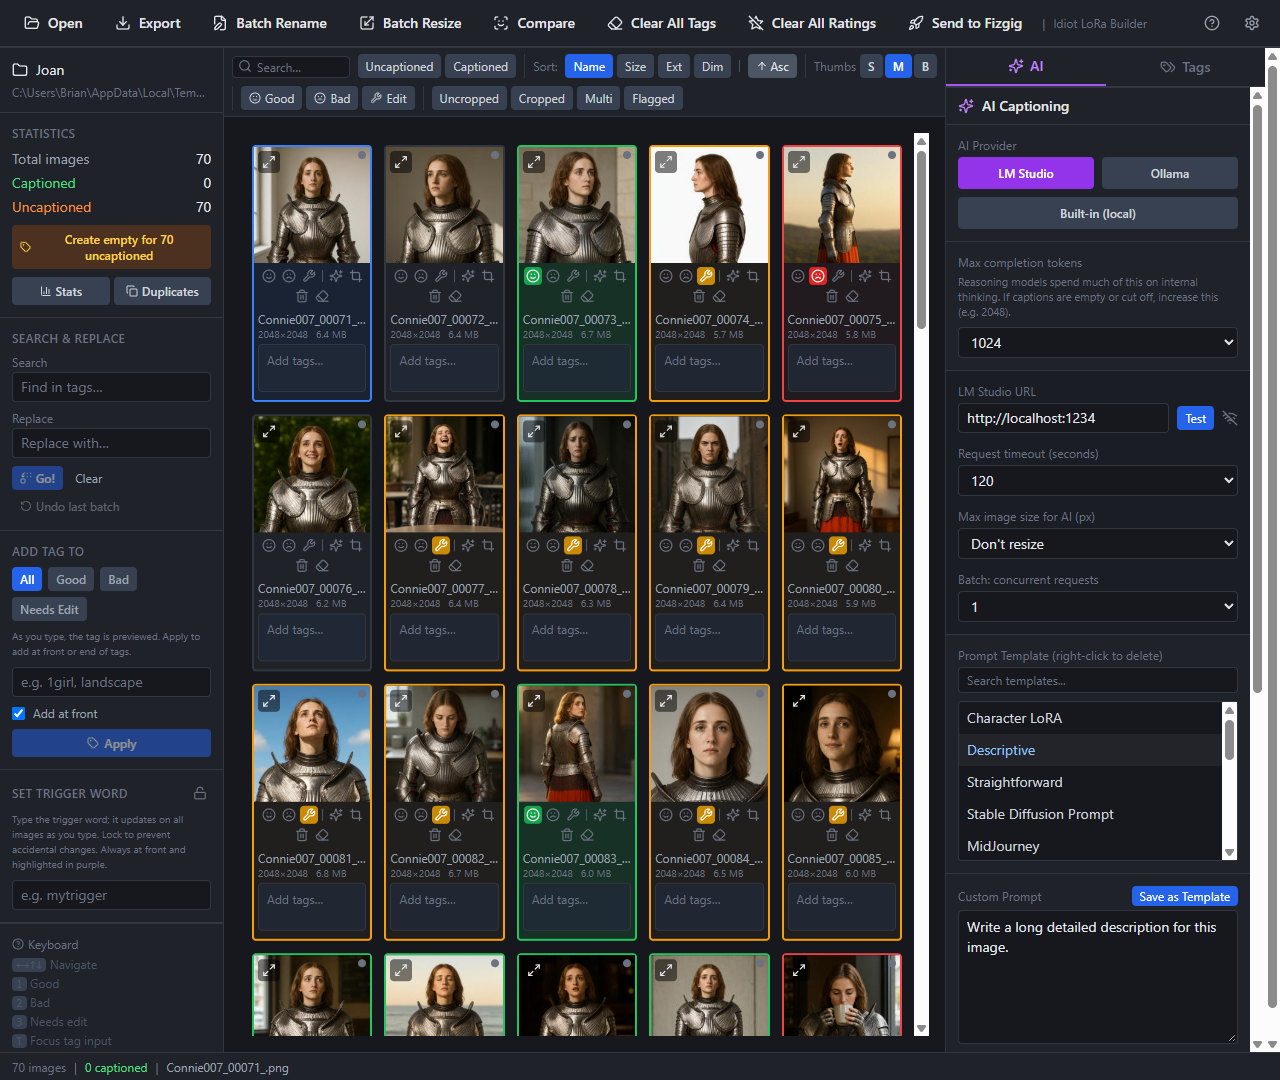
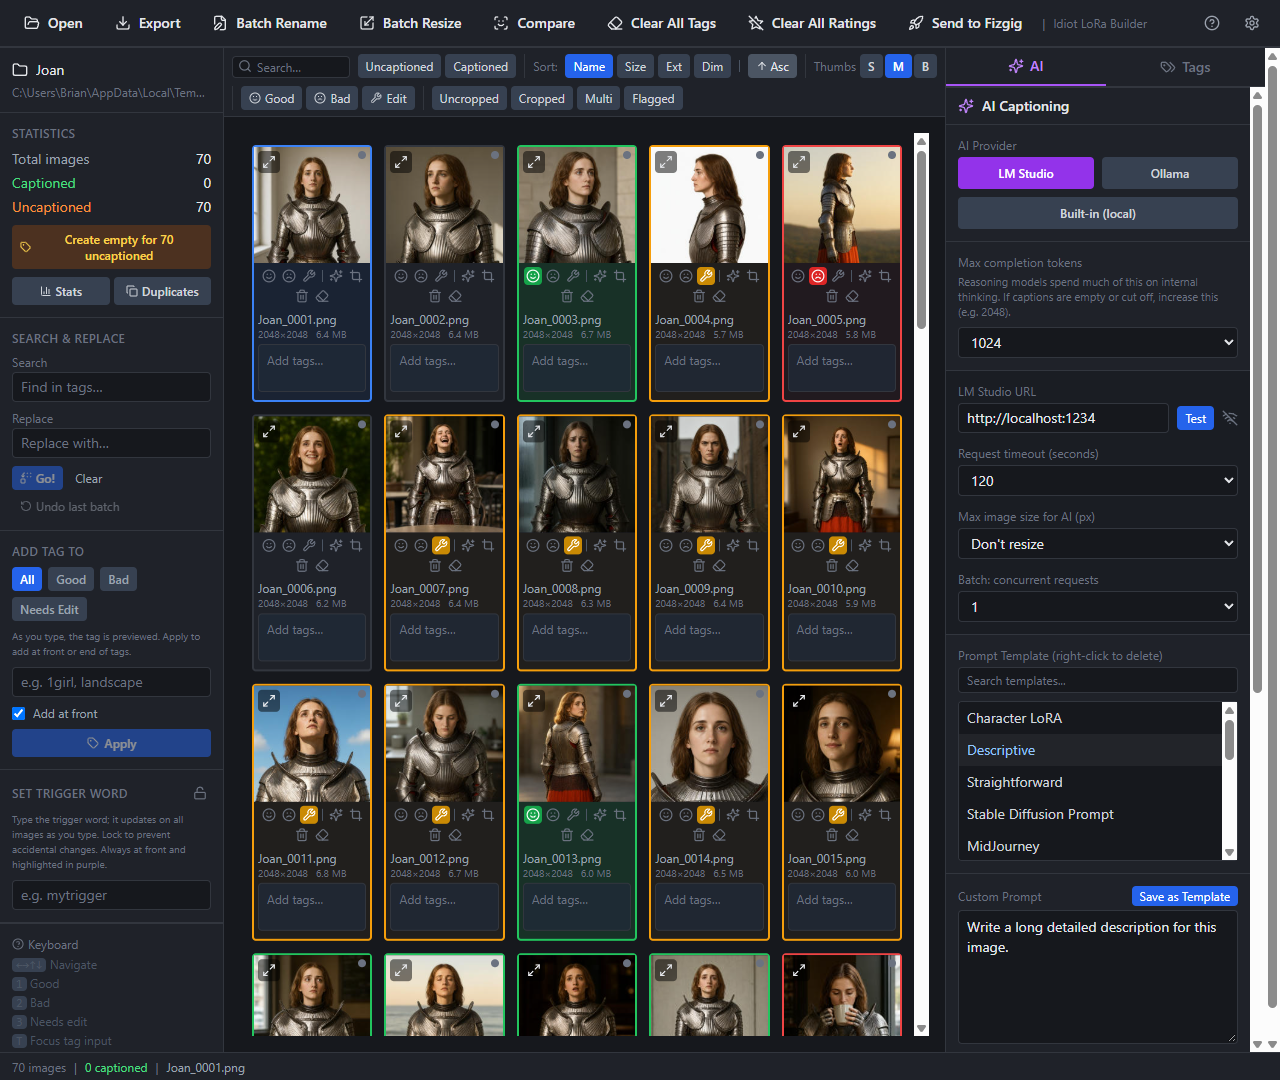
docs: refresh Joan screenshots after dataset file renaming

diff --git a/docs/readme-compare-guide.md b/docs/readme-compare-guide.md
@@ -1,6 +1,6 @@
 # README Compare walkthrough (2026-10-11)
 
-NEXT: Documentation and screenshot verification complete; commit and push the README update to main.
+NEXT: Renamed-file screenshots verified and ready to publish on main.
 
 User requested new README image examples showing how to use the latest features. Capture three real screenshots from the current bundled desktop build: per-slot dataset reference picker, comparison review with Good/Bad/Needs Edit overrides and apply actions, and saved ratings on the main grid. Refresh the README hero screenshot too. Use only a disposable demo dataset with brightness variants of the public-domain Grace Hopper U.S. Navy portrait; do not publish personal dataset images. Credit the source and explicitly describe the sample as a controls demonstration, not a varied training set or accuracy benchmark.
 
@@ -12,3 +12,8 @@ Verified all four README screenshots exist and are valid 1280x1080 PNGs; inspect
 User corrected the screenshot choice: use the Joan set currently loaded in the app. Located the loaded folder through the app profile and copied its 70 image files to a disposable temporary Joan folder for screenshot capture. Leave the user's open app, originals and ratings unchanged. Use front/three-quarter/expression references from this actual character set. Replace all four demo screenshots and remove the Grace Hopper demo attribution.
 
 Verified the Joan copy scan: 70 images, 68 scored faces, 64 eligible ratings saved only in the temporary copy. Captured references, reviewed suggestions with two manual overrides, and main-grid ratings. Limited the screenshot-session caption preview to Good so its green highlight does not obscure Bad/Needs Edit borders. Original Joan folder still has no .lora-studio metadata, and the original app process remains open and responsive. All four screenshots were visually checked and all README image paths validated.
+
+## Renamed Joan files
+User renamed the dataset files for publication and requested new screenshots. Verified image content hashes against the prior screenshot copy; preserve the same reference images and review examples under their new Joan filenames. Capture from a new temporary copy and isolated app profile, leaving the loaded original dataset untouched.
+
+Recaptured all four 1280x1080 screenshots with Joan_0001.png-style filenames. Real scan again scored 68 faces and saved 64 eligible ratings in the disposable copy. References Joan_0001, Joan_0002 and Joan_0006 match the prior image content exactly. Verified original image names and hashes are unchanged, README image links resolve, and main-grid rating colors remain visible.
